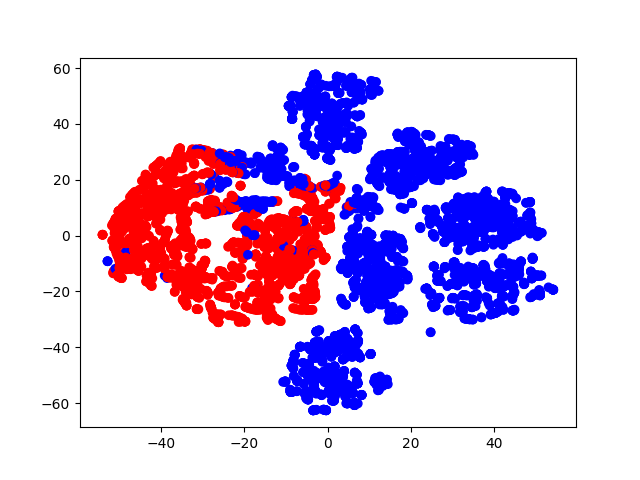
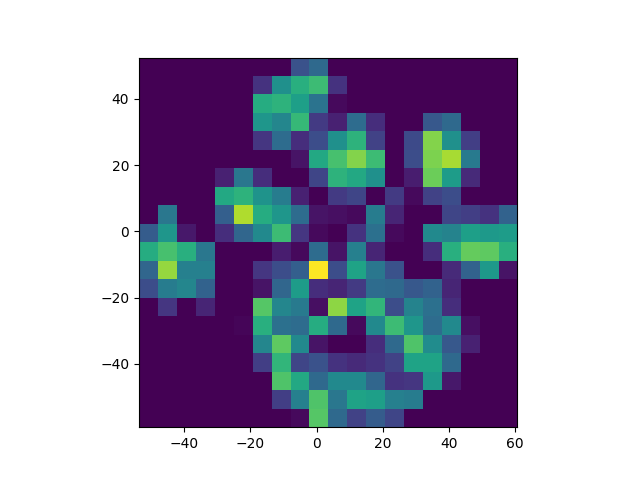
more results

diff --git a/experiments/resnet_tsne.py b/experiments/resnet_tsne.py
@@ -19,26 +19,33 @@ def main():
 
     video_path = config['video_path']
     resnet_features_path = config['resnet_features_path']
-    yolo_labels_path = config['yolo_labels']
+    #yolo_labels_path = config['yolo_labels']
     results_dir = config['results_dir']
     
     print('load feature vectors')
     resnet_features = np.load(os.path.join(DIRNAME, resnet_features_path))
-
+    
     print('load the labels from yolo')
-    yolo_labels = pandas.read_csv(yolo_labels_path)
-    yolo_labels = map(eval, yolo_labels['label'].tolist())
-    colors = map(lambda x: 'r' if x else 'b', yolo_labels)
+    #yolo_labels = pandas.read_csv(yolo_labels_path)
+    #yolo_labels = map(eval, yolo_labels['label'].tolist())
+    #colors = map(lambda x: 'r' if x else 'b', yolo_labels)
     
     print('project into 2d')
     projection = np.load('/tmp/tnse.npy')
+    #projection = projection[0:100,:]
+    #print projection.shape
     
-    #model = TSNE(n_components = 2, random_state = 0, n_jobs=2)
-    #projection = model.fit_transform(resnet_features)
-    #np.save('/tmp/tnse.npy', projection)
+    model = TSNE(n_components = 2, random_state = 0, n_jobs=8, n_iter=2000, perplexity=50)
+    projection = model.fit_transform(resnet_features)
+    np.save('/tmp/tnse.npy', projection)
     
     print('plot the results')
-    plt.scatter(projection[:,0], projection[:,1], c=colors)
+    H, x, y = np.histogram2d(projection[:,0], projection[:,1], bins=20)
+    plt.imshow(H, interpolation='nearest', origin='low',
+               extent=[x[0], x[-1], y[0], y[-1]])
+    
+    #plt.scatter(projection[:,0], projection[:,1])
+    #plt.scatter(projection[:,0], projection[:,1], c=colors)
     plt.savefig(os.path.join(results_dir, 'resnet_tsne.png'))
     
 if (__name__ == '__main__'):
